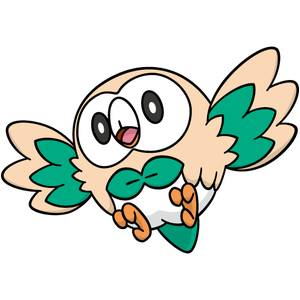
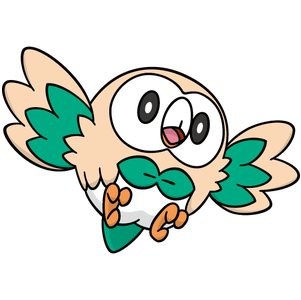
hide scrollbar

diff --git a/client/src/components/pages/home/introduction/Info/Info.jsx b/client/src/components/pages/home/introduction/Info/Info.jsx
@@ -14,7 +14,7 @@ const Info = React.memo(() => {
         I like coding, especially web developement and computer graphics. You
         can find out some projects I made in the section below. I like reading,
         do you like <i>Love in the Time of Cholera</i>? If so, we are friends! I
-        like Pokémon, do you know the Pokémon in the upper right corner? Can't
+        like Pokémon, do you know the Pokémon in the upper left corner? Can't
         wait to play Pokémon Sword and Shield!
       </P>
       <Title>Coals</Title>

diff --git a/client/src/index.css b/client/src/index.css
@@ -40,9 +40,14 @@ html {
 	font-size: 20px;
 	min-width: 300px;
 }
+
+html,body {
+	-ms-overflow-style: none;
+}
 body::-webkit-scrollbar {
   width: 0;
 }
+
 
 @media screen and (max-width: 700px) {
 	html {

diff --git a/client/src/components/pages/home/introduction/style.jsx b/client/src/components/pages/home/introduction/style.jsx
@@ -17,6 +17,6 @@ export const Img = styled.img`
   width: 9rem;
   height: 9rem;
   top: 0;
-  right: 50px;
+  left: 50px;
   z-index: 1000;
 `;
